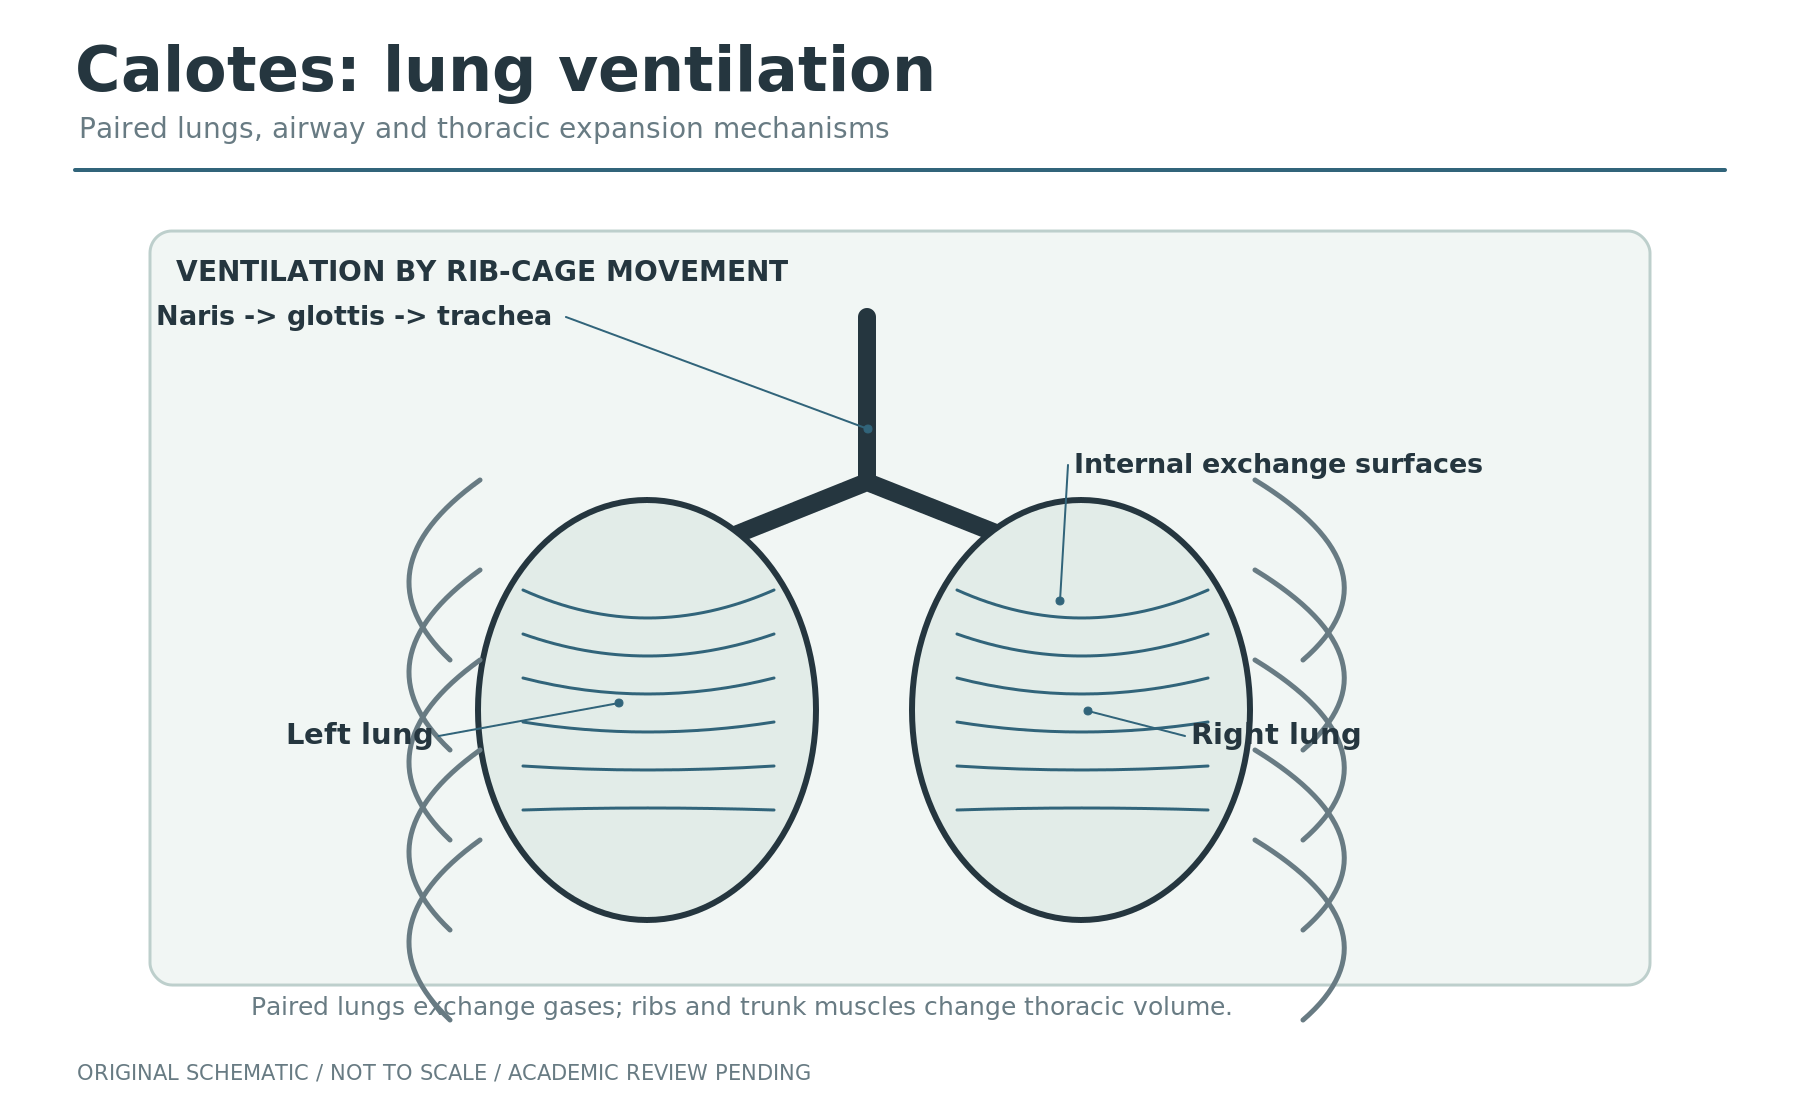
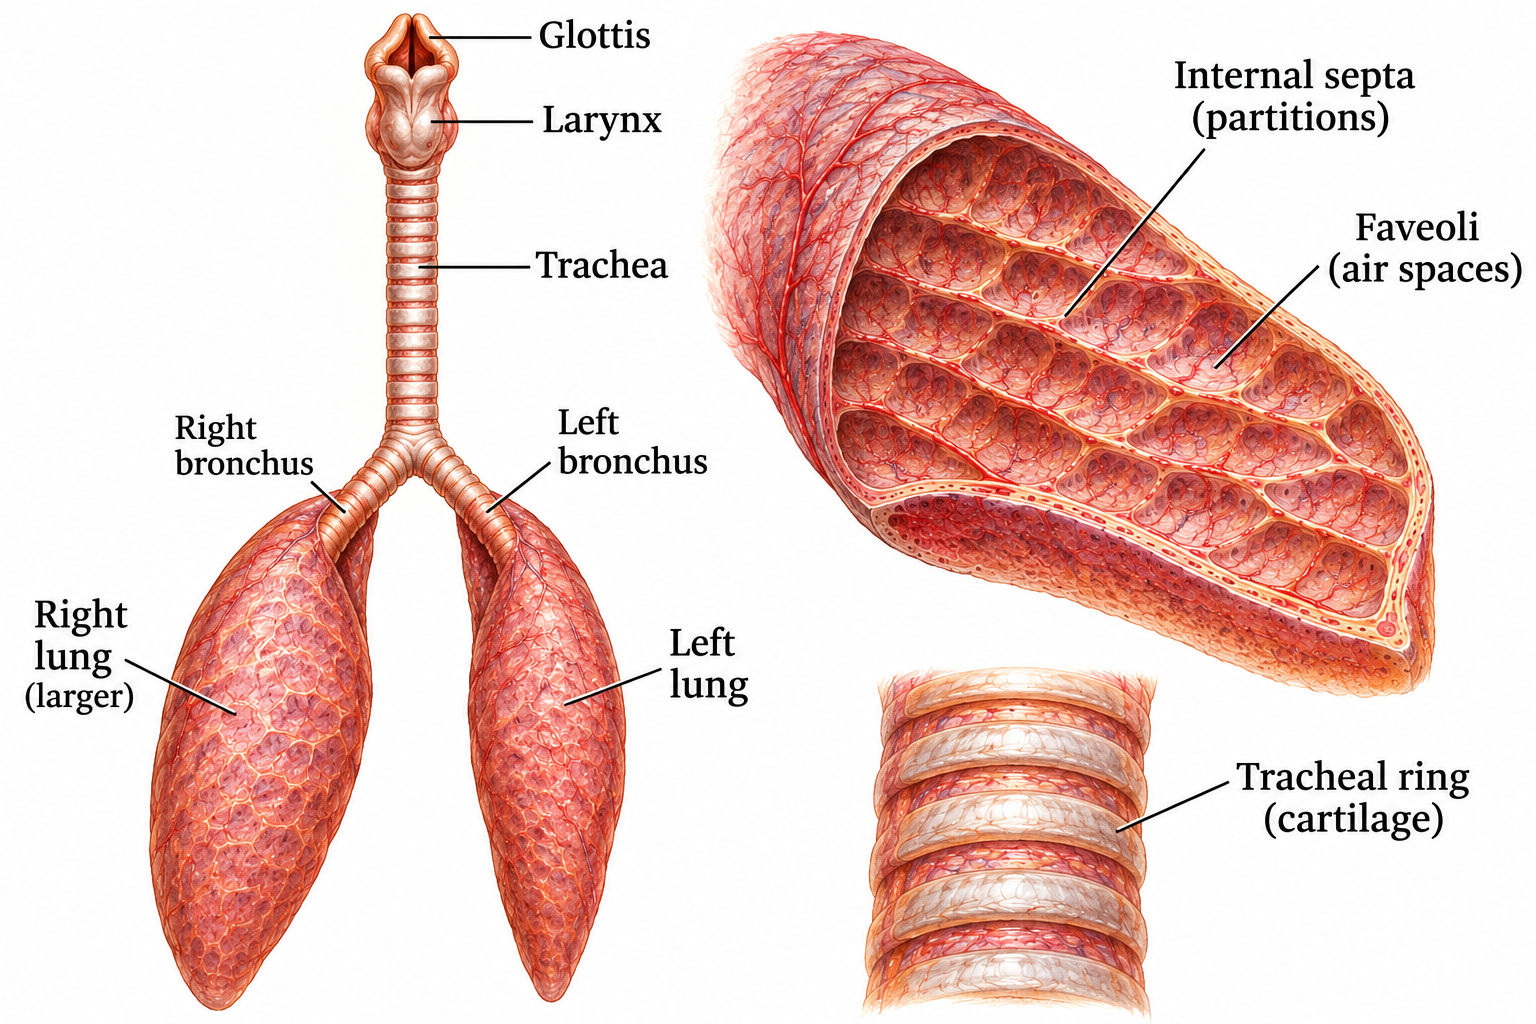
qa: replace provisional Calotes respiratory vector PNG with credited original raster candidate

diff --git a/docs/CHORDATA_CALOTES_RESPIRATORY_AI_PNG_QA_20261108.md b/docs/CHORDATA_CALOTES_RESPIRATORY_AI_PNG_QA_20261108.md
@@ -1,0 +1,29 @@
+# CHORDATA Calotes respiratory-system PNG — provisional replacement (8 November 2026)
+
+QA branch: `qa/chordata-illustrations-continuous` (parent `664601de13a34808ccc02f8b9887e920c39791c9`).
+Lesson: Unit IV / `u4-calotes` / page 3 / `respiratory-system`.
+Figure ID: `u4-calotes-respiratory-system`.
+Image path: `app/src/main/assets/pencil_plates/calotes_respiratory_en.png`.
+
+## Exact binary identities
[2 lines of base64/hex data omitted]
+- New PNG: 2,226,351 bytes. Retained original image is replaced only on the QA branch.
+- Creator: OpenAI ChatGPT ImageGen, 8 November 2026; reference material was not copied into the generated PNG.
+- Rights: project-generated original image; scientific and Tamil review PENDING. No academic approval is claimed.
+
+## Biological review requirements
+- Confirm the ventral/anterior alignment of glottis, larynx, trachea, paired bronchi and lungs in Calotes.
+- Confirm that pulmonary septa are walls and faveoli are the spaces they bound; the magnified view is schematic, not histology.
+- Confirm airway rings, branching geometry, right/left proportions and the point of bronchial entry in a Calotes-specific anatomical source.
+- Rib-driven aspiration is explained in the lesson text, but not displayed in the plate.
+- English image labels are acceptable in both language views; ensure Tamil lesson/caption quality separately.
+- The depicted anatomy is not certified for species-specific practical examination or dissection guidance.
+
+## Reference leads (not image credits)
+- https://kalikadevicollegeshirurkasar.org/sites/default/files/1595342386113.pdf
+- https://pmc.ncbi.nlm.nih.gov/articles/PMC13163023/
+- https://books.google.com/books?id=t4o_AAAAYAAJ
+
+## Integration rules
+This commit changes only the image, manifest, review register and QA note. It preserves 68 registered image variants and all other figure assets. The reviewer register must retain 64 rows; this changed image remains PENDING for independent biology and Tamil review. Verify Android source/figure/hash checks, debug Kotlin compilation, emulator, QA APK binary integrity and real-device pinch zoom before release. Production is HOLD.
